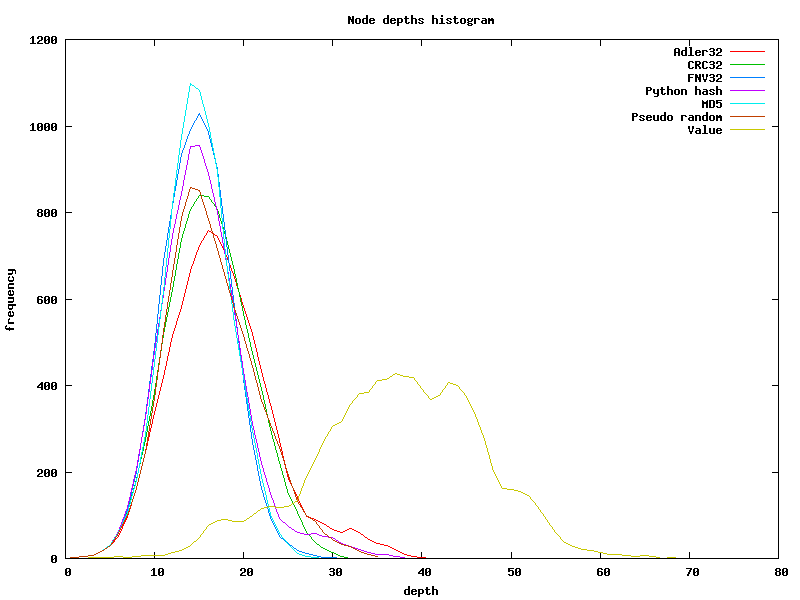
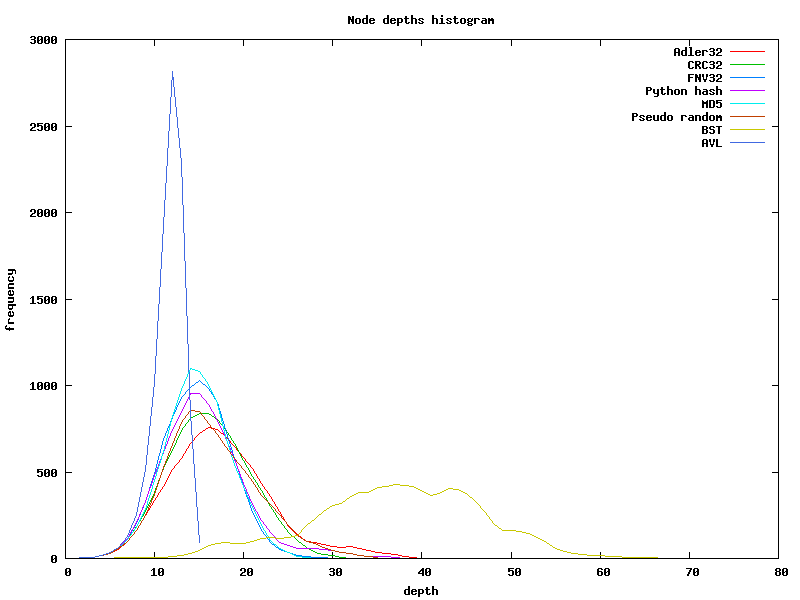
include AVL trees

diff --git a/avl/adapters.py b/avl/adapters.py
@@ -1,0 +1,32 @@
+from pyavltree import AVLTree, Node as AVLNode
+
+class AVLNodeAdapter(object):
+	def __init__(self, avl_node):
+		self.node = avl_node
+
+	def get_values(self):
+		return []
+
+
+class AVLTreeAdapter(object):
+	def __init__(self):
+		self.avl = AVLTree()
+
+	def insert(self, key, value):
+		self.avl.insert(key)
+
+	def iter(self):
+		queue = [(self.avl.rootNode, 0)]
+
+		while queue:
+			node, depth = queue.pop()
+			if node is None:
+				continue
+
+			yield AVLNodeAdapter(node), depth
+
+			if node.leftChild:
+				queue.append((node.leftChild, depth + 1))
+			if node.rightChild:
+				queue.append((node.rightChild, depth + 1))
+

diff --git a/main.py b/main.py
@@ -4,13 +4,20 @@ from Tree import Tree
 from tree_stats import *
 import balanced_tree
 
+import avl
+from avl.adapters import AVLTreeAdapter as AVLTree
 
 def main(argv):
 	options = get_options(argv)
 
 	data = load_data(options)
 
-	tree = Tree()
+	if options.avl:
+		print "*** use AVL implementation"
+		tree = AVLTree()
+	else:
+		tree = Tree()
+
 	get_key = options.key_function
 
 	if options.perfect:

diff --git a/cmdline.py b/cmdline.py
@@ -50,6 +50,13 @@ def get_options(argv):
 		default=False,
 	)
 
+	parser.add_option('--avl',
+		help='use AVL tree',
+		action='store_true',
+		dest='avl',
+		default=False,
+	)
+
 	(options, parameters) = parser.parse_args(argv)
 
 	validate(options, parser)

diff --git a/README.rst b/README.rst
@@ -16,6 +16,10 @@ almost random.
 .. image:: histogram.png
    :align: center
 
+However, tree shape is far from near-optimal AVL.
+
+.. image:: histogram_avl.png
+   :align: center
 
 Experiments
 ------------------------------------------------------------------------
